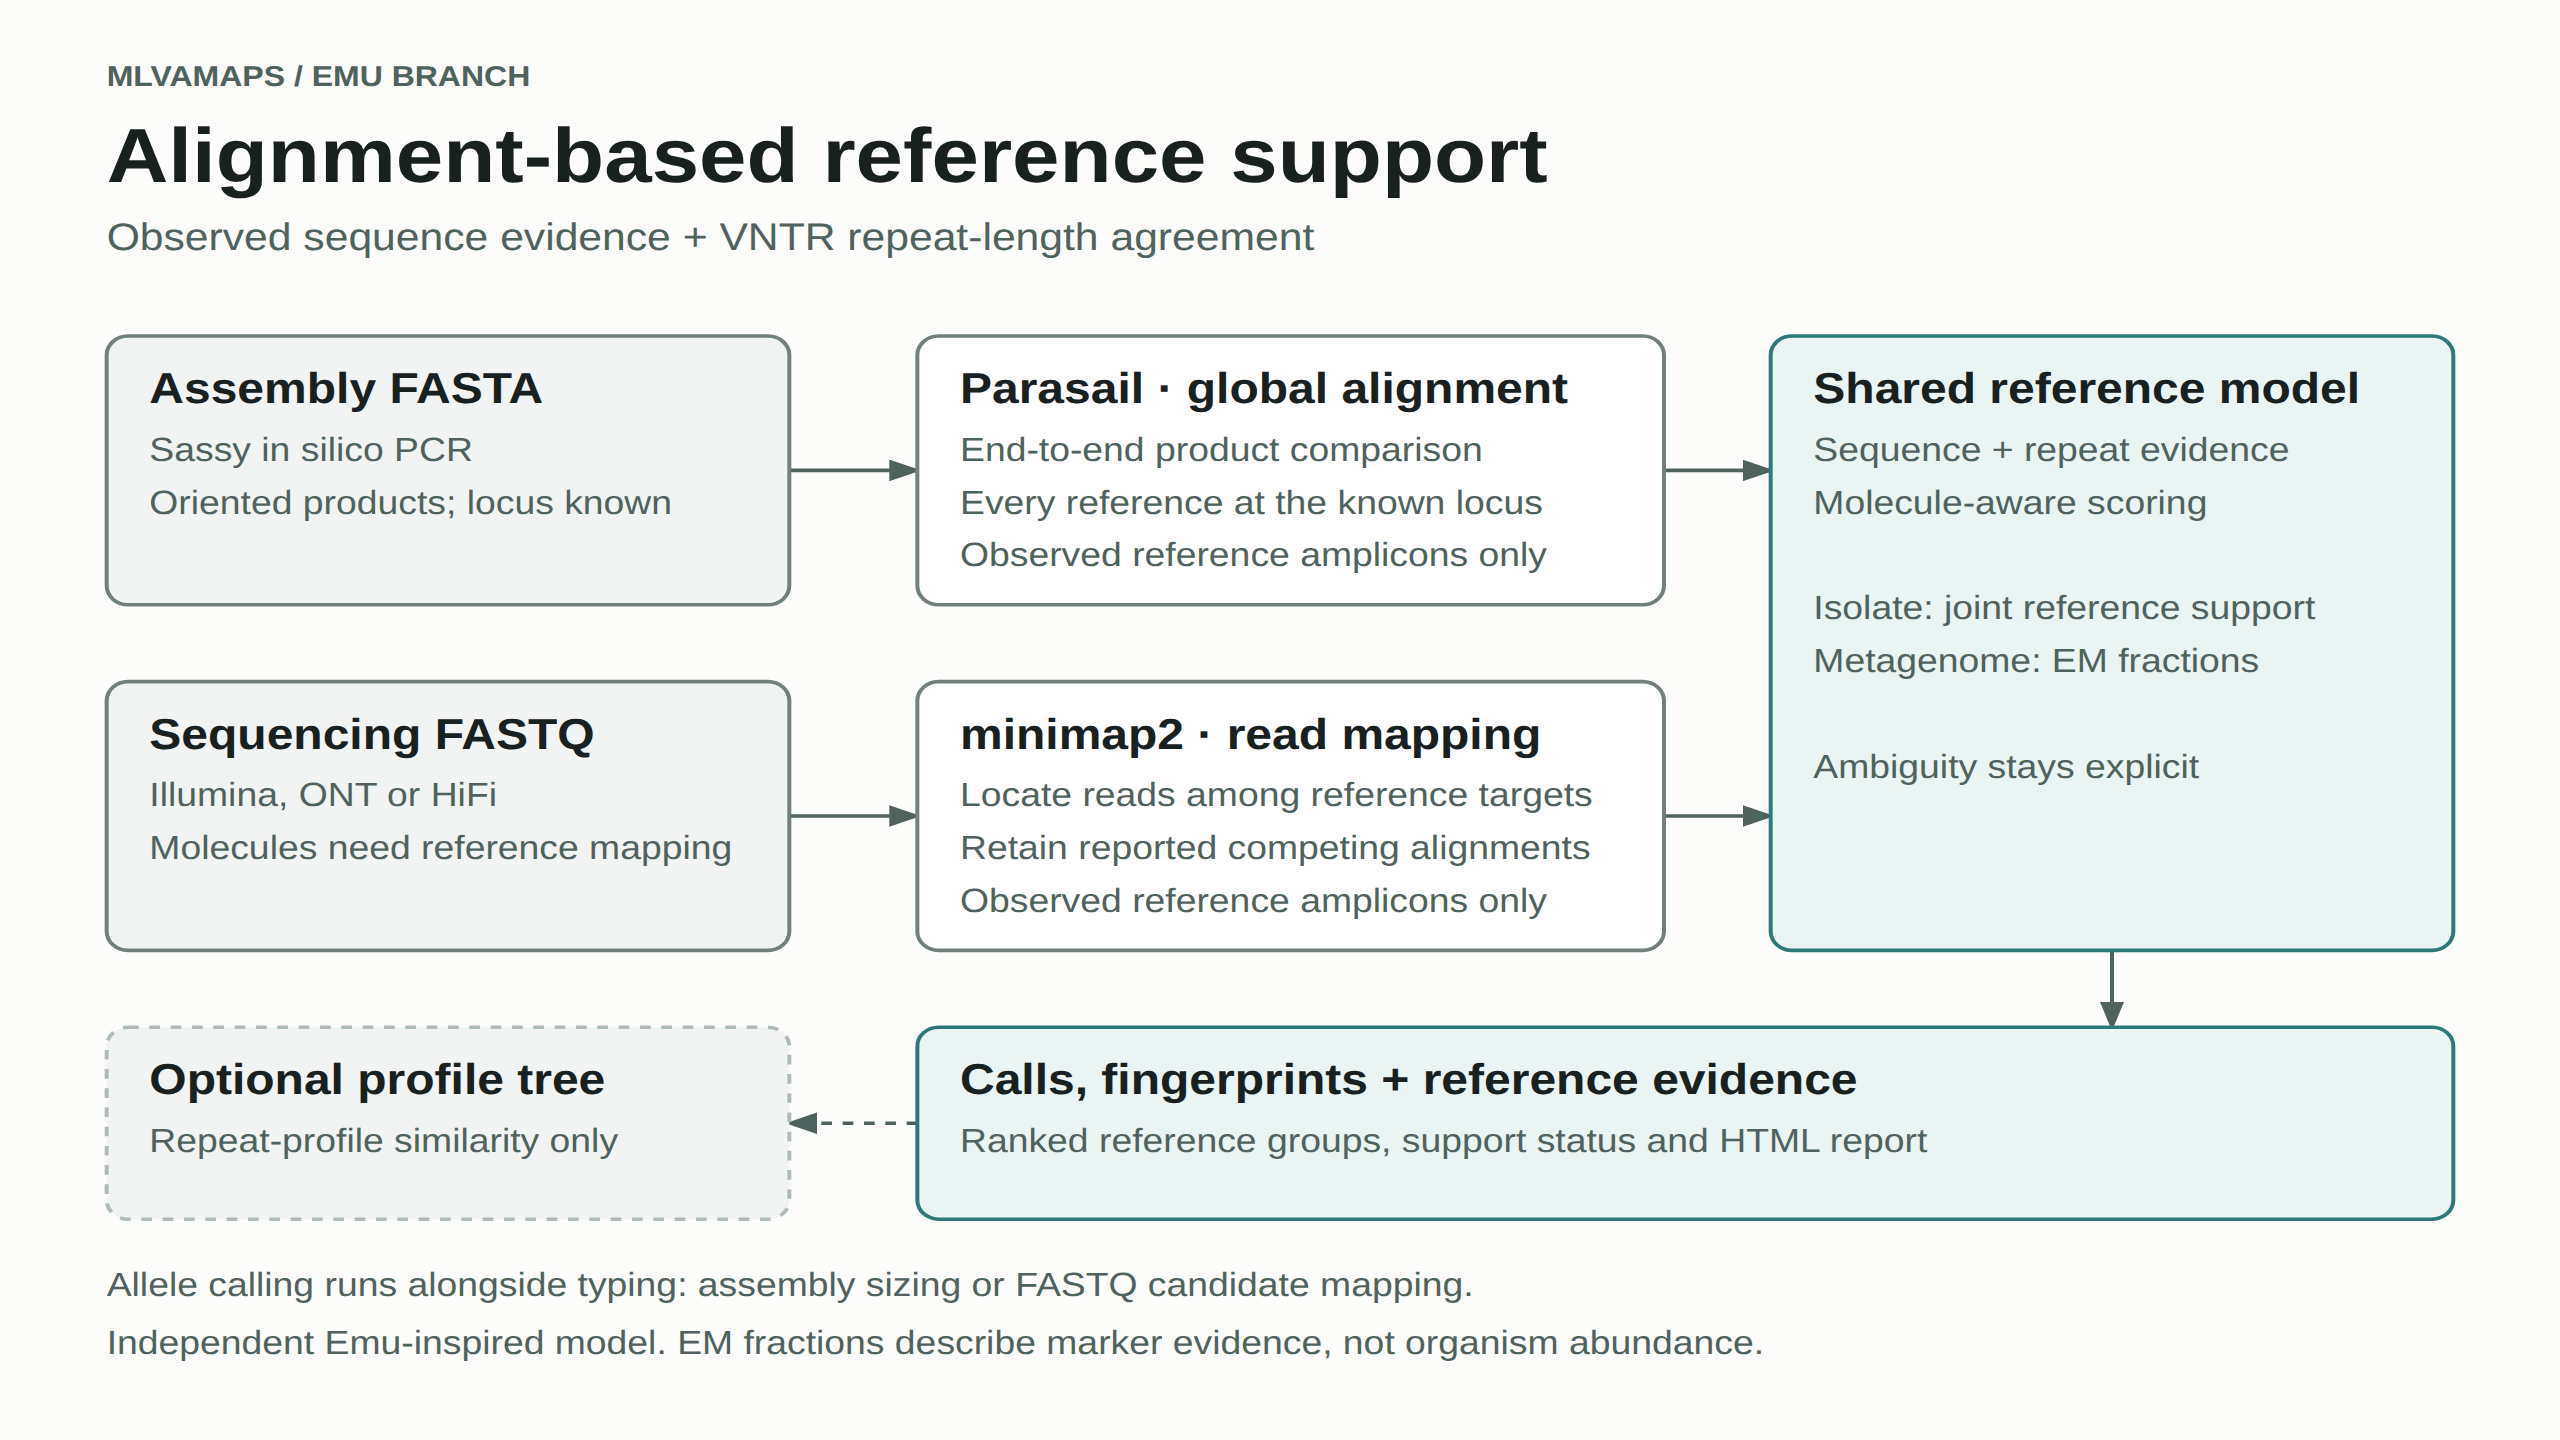
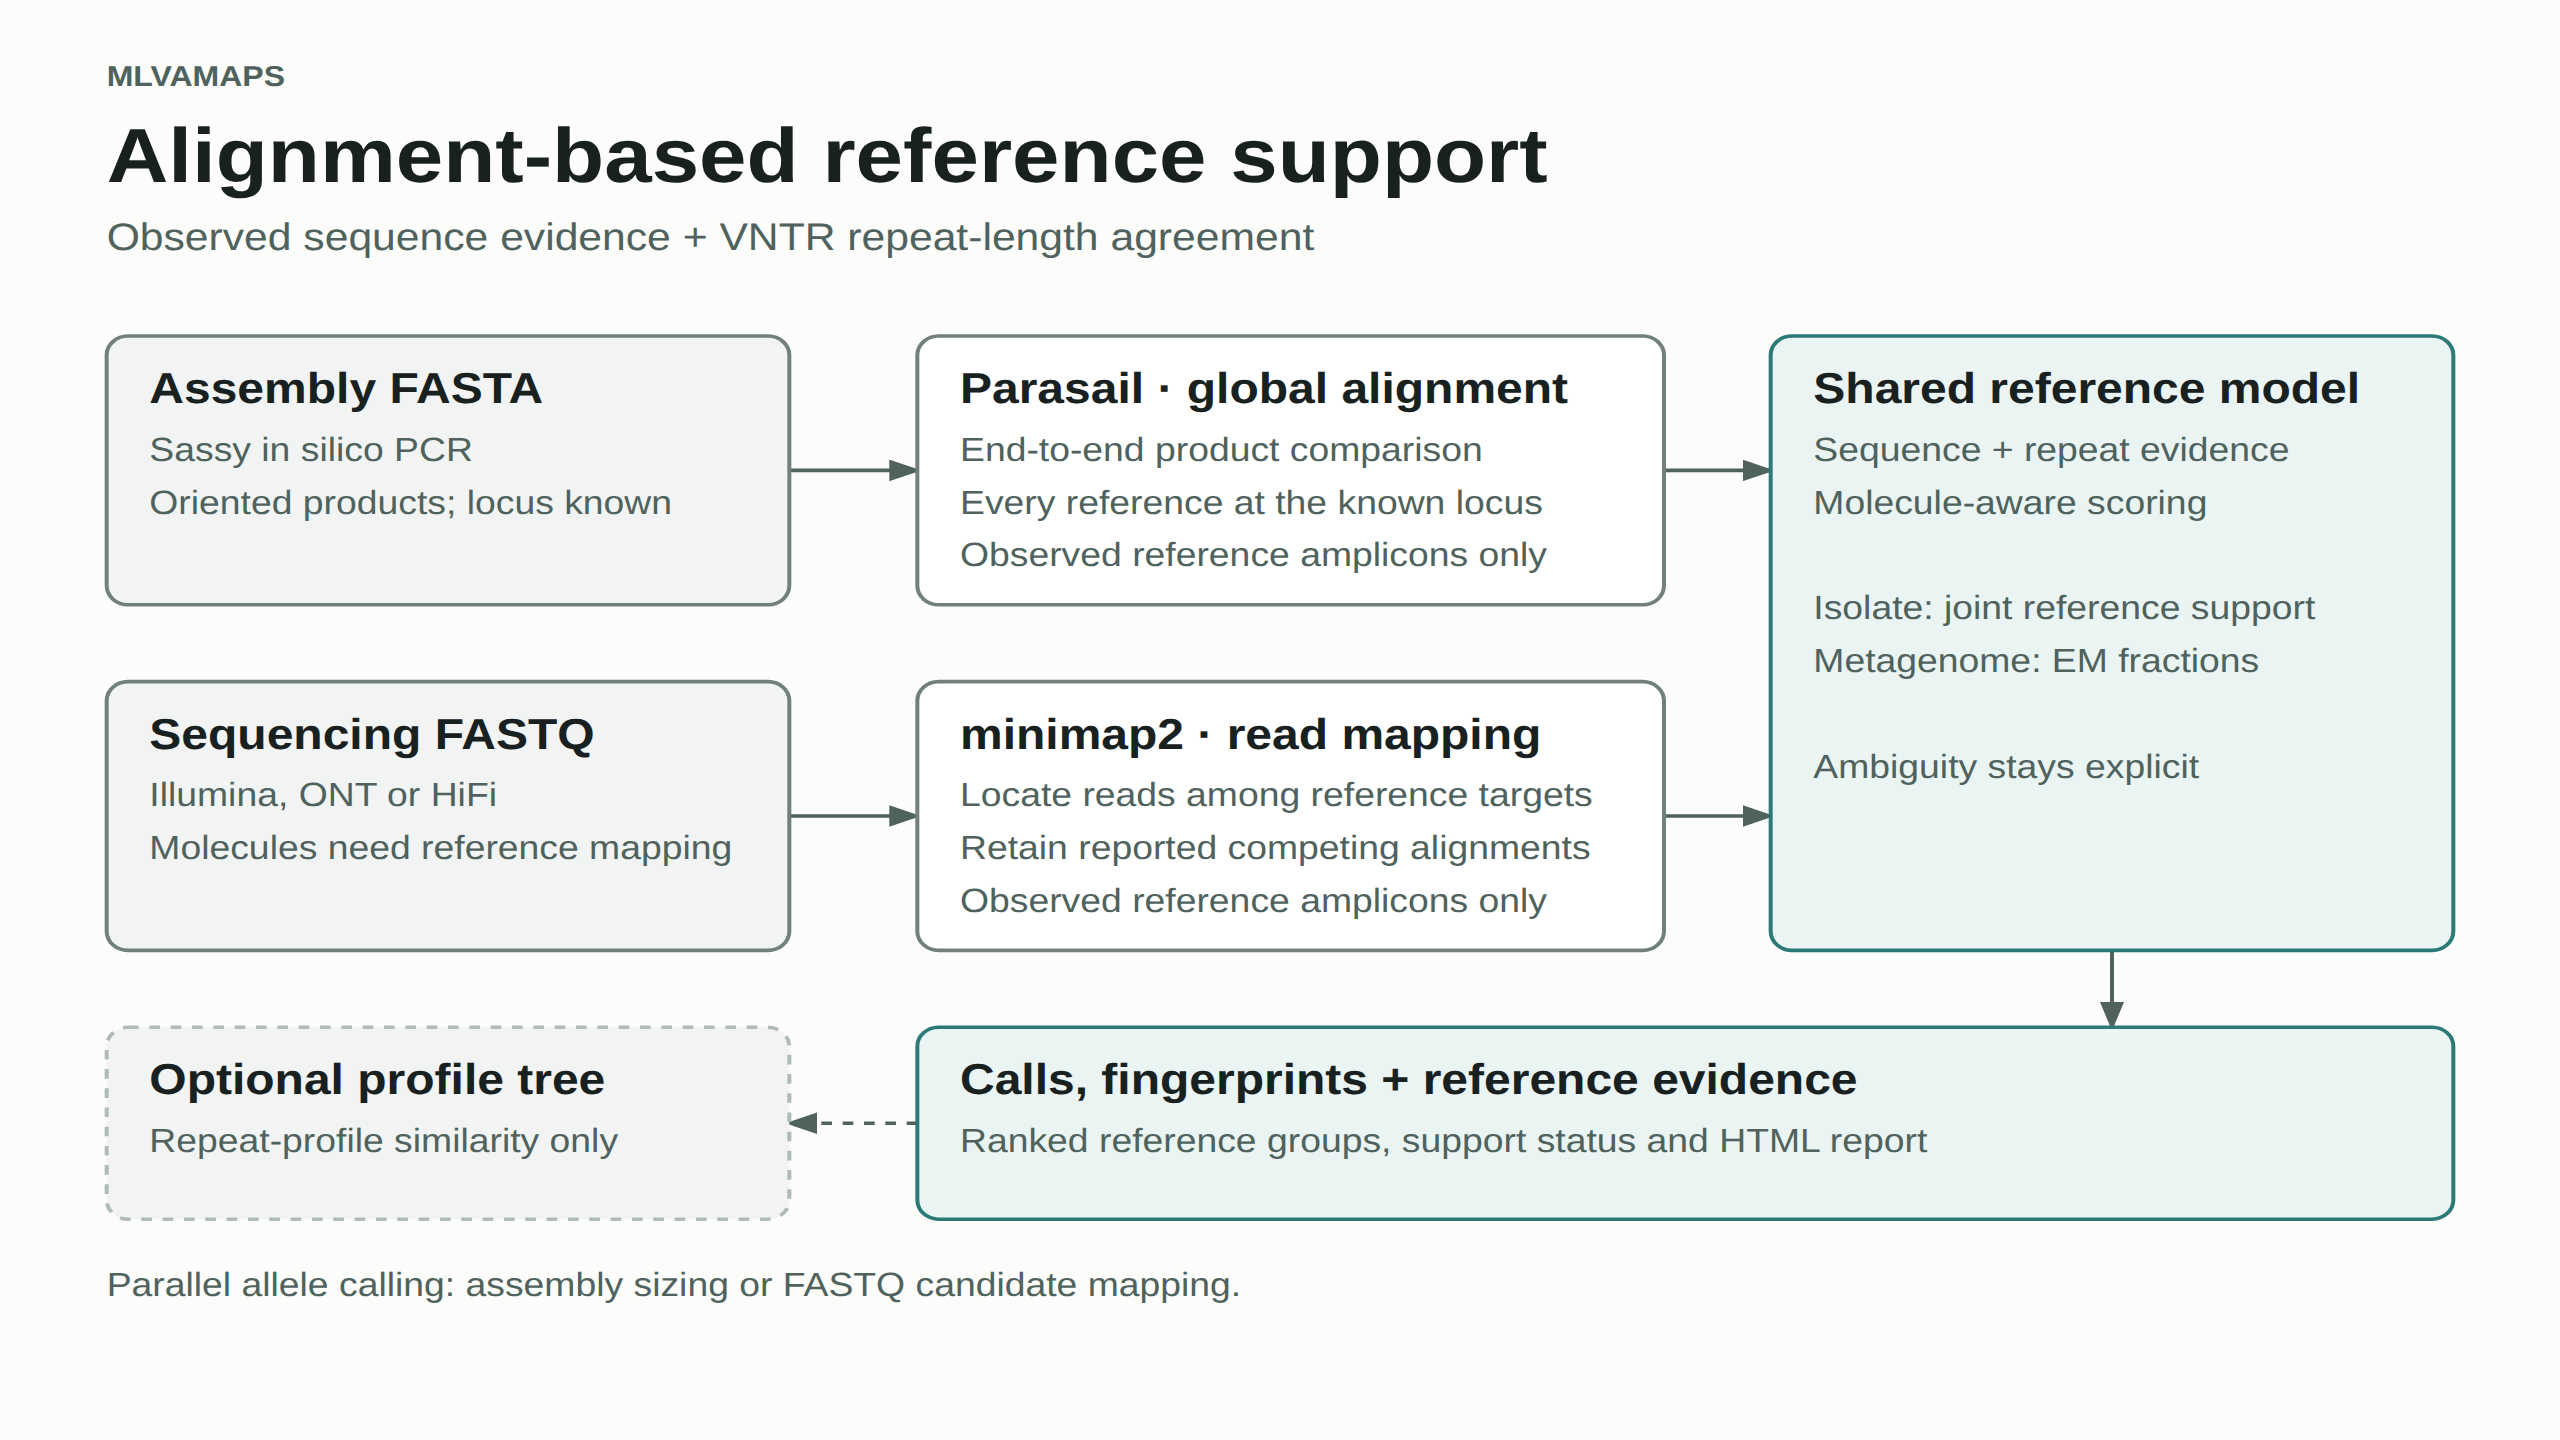
update figs for merge

Changed region(s): [[0.0312, 0.875, 0.6875, 0.9375], [0.125, 0.0312, 0.2188, 0.0625]]

diff --git a/figures/software_workflow/mlvamaps_sample_calling_presentation.html b/figures/software_workflow/mlvamaps_sample_calling_presentation.html
@@ -24,7 +24,7 @@
 </defs>
 <rect width="1280" height="720" fill="#fcfcfa"/>
 <g font-family="Arial, Helvetica, sans-serif" transform="scale(1.3333333333333333 1.2)">
-<text x="40" y="36" font-size="12" font-weight="600" fill="#4f625d">MLVAMAPS  /  EMU BRANCH</text>
+<text x="40" y="36" font-size="12" font-weight="600" fill="#4f625d">MLVAMAPS</text>
 <text x="40" y="76" font-size="32" font-weight="600" fill="#18211f">Alignment-based reference support</text>
 <text x="40" y="104" font-size="16" font-weight="400" fill="#4f625d">Observed sequence evidence + VNTR repeat-length agreement</text>
 <path d="M 296,196 H 344" fill="none" stroke="#4f625d" stroke-width="1.5" marker-end="url(#mlvamaps_sample_calling_presentation-arrow)"/>
@@ -68,8 +68,7 @@
 <rect x="40" y="428" width="256" height="80" rx="8" fill="#f2f4f3" stroke="#aebbb7" stroke-width="1.5" stroke-dasharray="4 4"/>
 <text x="56" y="456" font-size="18" font-weight="600" fill="#18211f">Optional profile tree</text>
 <text x="56" y="480" font-size="14" font-weight="400" fill="#4f625d">Repeat-profile similarity only</text>
-<text x="40" y="540" font-size="14" font-weight="400" fill="#4f625d">Allele calling runs alongside typing: assembly sizing or FASTQ candidate mapping.</text>
-<text x="40" y="564" font-size="14" font-weight="400" fill="#4f625d">Independent Emu-inspired model. EM fractions describe marker evidence, not organism abundance.</text>
+<text x="40" y="540" font-size="14" font-weight="400" fill="#4f625d">Parallel allele calling: assembly sizing or FASTQ candidate mapping.</text>
 </g>
 </svg>
 </main>

diff --git a/figures/software_workflow/mlvamaps_workflow.html b/figures/software_workflow/mlvamaps_workflow.html
@@ -24,7 +24,7 @@
 </defs>
 <rect width="1120" height="792" fill="#fcfcfa"/>
 <g font-family="Arial, Helvetica, sans-serif" transform="scale(1.1666666666666667 1.0)">
-<text x="40" y="36" font-size="12" font-weight="600" fill="#4f625d">MLVAMAPS  /  EMU BRANCH</text>
+<text x="40" y="36" font-size="12" font-weight="600" fill="#4f625d">MLVAMAPS</text>
 <text x="40" y="76" font-size="32" font-weight="600" fill="#18211f">Alignment-based reference support</text>
 <text x="40" y="104" font-size="16" font-weight="400" fill="#4f625d">Observed sequence evidence + VNTR repeat-length agreement</text>
 <path d="M 296,192 H 336" fill="none" stroke="#4f625d" stroke-width="1.5" marker-end="url(#mlvamaps_workflow-arrow)"/>
@@ -83,8 +83,7 @@
 <rect x="40" y="620" width="256" height="80" rx="8" fill="#f2f4f3" stroke="#aebbb7" stroke-width="1.5" stroke-dasharray="4 4"/>
 <text x="56" y="648" font-size="18" font-weight="600" fill="#18211f">Optional profile tree</text>
 <text x="56" y="672" font-size="14" font-weight="400" fill="#4f625d">Repeat-profile similarity only</text>
-<text x="40" y="732" font-size="14" font-weight="400" fill="#4f625d">Allele calling runs alongside typing: assembly sizing or FASTQ candidate mapping.</text>
-<text x="40" y="756" font-size="14" font-weight="400" fill="#4f625d">Independent Emu-inspired model. EM fractions describe marker evidence, not organism abundance.</text>
+<text x="40" y="732" font-size="14" font-weight="400" fill="#4f625d">Parallel allele calling: assembly sizing or FASTQ candidate mapping.</text>
 </g>
 </svg>
 </main>

diff --git a/figures/software_workflow/mlvamaps_sample_calling_github.html b/figures/software_workflow/mlvamaps_sample_calling_github.html
@@ -24,7 +24,7 @@
 </defs>
 <rect width="960" height="600" fill="#fcfcfa"/>
 <g font-family="Arial, Helvetica, sans-serif" transform="scale(1.0 1.0)">
-<text x="40" y="36" font-size="12" font-weight="600" fill="#4f625d">MLVAMAPS  /  EMU BRANCH</text>
+<text x="40" y="36" font-size="12" font-weight="600" fill="#4f625d">MLVAMAPS</text>
 <text x="40" y="76" font-size="32" font-weight="600" fill="#18211f">Alignment-based reference support</text>
 <text x="40" y="104" font-size="16" font-weight="400" fill="#4f625d">Observed sequence evidence + VNTR repeat-length agreement</text>
 <path d="M 296,196 H 344" fill="none" stroke="#4f625d" stroke-width="1.5" marker-end="url(#mlvamaps_sample_calling_github-arrow)"/>
@@ -68,8 +68,7 @@
 <rect x="40" y="428" width="256" height="80" rx="8" fill="#f2f4f3" stroke="#aebbb7" stroke-width="1.5" stroke-dasharray="4 4"/>
 <text x="56" y="456" font-size="18" font-weight="600" fill="#18211f">Optional profile tree</text>
 <text x="56" y="480" font-size="14" font-weight="400" fill="#4f625d">Repeat-profile similarity only</text>
-<text x="40" y="540" font-size="14" font-weight="400" fill="#4f625d">Allele calling runs alongside typing: assembly sizing or FASTQ candidate mapping.</text>
-<text x="40" y="564" font-size="14" font-weight="400" fill="#4f625d">Independent Emu-inspired model. EM fractions describe marker evidence, not organism abundance.</text>
+<text x="40" y="540" font-size="14" font-weight="400" fill="#4f625d">Parallel allele calling: assembly sizing or FASTQ candidate mapping.</text>
 </g>
 </svg>
 </main>
